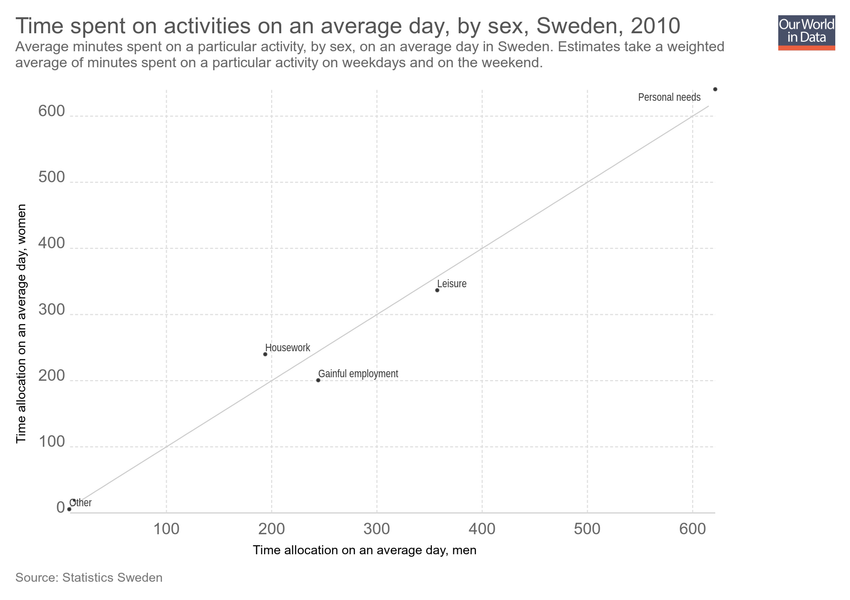
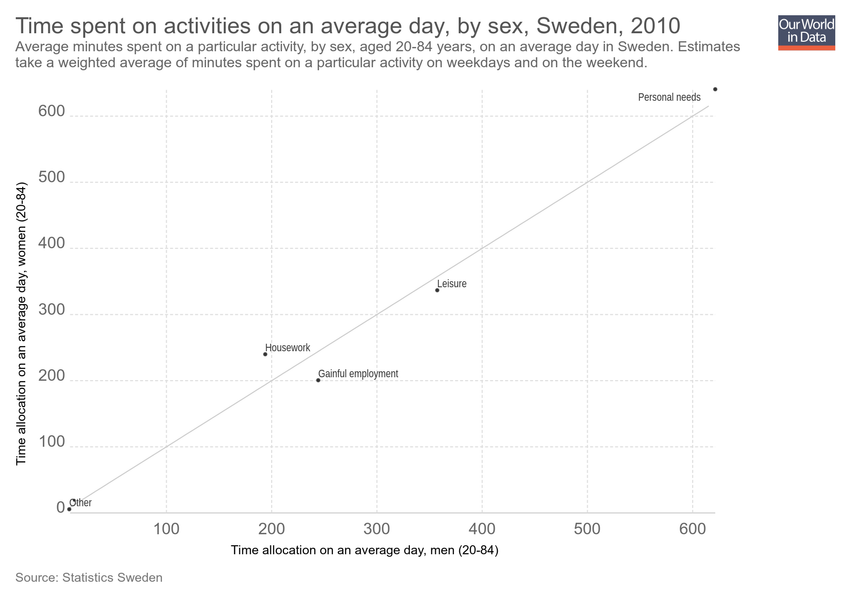
Updating chart time-spent-on-activities-on-an-average-day-by-sex-sweden

Changed region(s): [[0.0, 0.06, 0.8871, 0.12], [0.0, 0.3, 0.0306, 0.78], [0.2753, 0.9, 0.5812, 0.93]]

diff --git a/grapher/time-spent-on-activities-on-an-average-day-by-sex-sweden.html b/grapher/time-spent-on-activities-on-an-average-day-by-sex-sweden.html
@@ -1,4 +1,4 @@
-<!doctype html><html><head><meta name="viewport" content="width=device-width, initial-scale=1" /><title>Time spent on activities on an average day, by sex, Sweden - Our World in Data</title><meta name="description" content="Average minutes spent on a particular activity, by sex, on an average day in Sweden. Estimates take a weighted average of minutes spent on a particular activity on weekdays and on the weekend. " /><link rel="canonical" href="https://ourworldindata.org/grapher/time-spent-on-activities-on-an-average-day-by-sex-sweden" /><meta property="fb:app_id" content="1149943818390250" /><meta property="og:url" content="https://ourworldindata.org/grapher/time-spent-on-activities-on-an-average-day-by-sex-sweden" /><meta property="og:title" content="Time spent on activities on an average day, by sex, Sweden" /><meta property="og:description" content="Average minutes spent on a particular activity, by sex, on an average day in Sweden. Estimates take a weighted average of minutes spent on a particular activity on weekdays and on the weekend. " /><meta property="og:image" content="https://ourworldindata.org/grapher/exports/time-spent-on-activities-on-an-average-day-by-sex-sweden.png?v=3" /><meta property="og:image:width" content="850" /><meta property="og:image:height" content="600" /><meta property="og:site_name" content="Our World in Data" /><meta name="twitter:card" content="summary_large_image" /><meta name="twitter:site" content="@OurWorldInData" /><meta name="twitter:creator" content="@OurWorldInData" /><meta name="twitter:title" content="Time spent on activities on an average day, by sex, Sweden" /><meta name="twitter:description" content="Average minutes spent on a particular activity, by sex, on an average day in Sweden. Estimates take a weighted average of minutes spent on a particular activity on weekdays and on the weekend. " /><meta name="twitter:image" content="https://ourworldindata.org/grapher/exports/time-spent-on-activities-on-an-average-day-by-sex-sweden.png?v=3" /><style>
+<!doctype html><html><head><meta name="viewport" content="width=device-width, initial-scale=1" /><title>Time spent on activities on an average day, by sex, Sweden - Our World in Data</title><meta name="description" content="Average minutes spent on a particular activity, by sex, aged 20-84 years, on an average day in Sweden. Estimates take a weighted average of minutes spent on a particular activity on weekdays and on the weekend. " /><link rel="canonical" href="https://ourworldindata.org/grapher/time-spent-on-activities-on-an-average-day-by-sex-sweden" /><meta property="fb:app_id" content="1149943818390250" /><meta property="og:url" content="https://ourworldindata.org/grapher/time-spent-on-activities-on-an-average-day-by-sex-sweden" /><meta property="og:title" content="Time spent on activities on an average day, by sex, Sweden" /><meta property="og:description" content="Average minutes spent on a particular activity, by sex, aged 20-84 years, on an average day in Sweden. Estimates take a weighted average of minutes spent on a particular activity on weekdays and on the weekend. " /><meta property="og:image" content="https://ourworldindata.org/grapher/exports/time-spent-on-activities-on-an-average-day-by-sex-sweden.png?v=4" /><meta property="og:image:width" content="850" /><meta property="og:image:height" content="600" /><meta property="og:site_name" content="Our World in Data" /><meta name="twitter:card" content="summary_large_image" /><meta name="twitter:site" content="@OurWorldInData" /><meta name="twitter:creator" content="@OurWorldInData" /><meta name="twitter:title" content="Time spent on activities on an average day, by sex, Sweden" /><meta name="twitter:description" content="Average minutes spent on a particular activity, by sex, aged 20-84 years, on an average day in Sweden. Estimates take a weighted average of minutes spent on a particular activity on weekdays and on the weekend. " /><meta name="twitter:image" content="https://ourworldindata.org/grapher/exports/time-spent-on-activities-on-an-average-day-by-sex-sweden.png?v=4" /><style>
         html, body {
             height: 100%;
             margin: 0;
@@ -20,8 +20,8 @@
         }
     </style><noscript><style>
                     figure { display: none !important; }
-                </style></noscript><link rel="stylesheet" href="https://ourworldindata.org/grapher/assets/commons.bundle.a7ca57435d3cddfe4bc2.css" /><link rel="preload" href="/grapher/data/variables/97953+97954+123.json?v=3" as="fetch" crossorigin /></head><body class="singleChart"><figure data-grapher-src="/grapher/time-spent-on-activities-on-an-average-day-by-sex-sweden"></figure><noscript id="fallback"><img src="/grapher/exports/time-spent-on-activities-on-an-average-day-by-sex-sweden.svg" /><p>Interactive visualization requires JavaScript</p></noscript><script src="https://cdn.polyfill.io/v2/polyfill.min.js?features=es6,fetch"></script><script src="https://ourworldindata.org/grapher/assets/commons.bundle.a7ca57435d3cddfe4bc2.js"></script><script src="https://ourworldindata.org/grapher/assets/charts.bundle.a7ca57435d3cddfe4bc2.js"></script><script>
-        var jsonConfig = {"id":3017,"map":{"projection":"World","colorSchemeLabels":[],"colorSchemeValues":[],"customNumericColors":[],"customCategoryColors":{},"customCategoryLabels":{},"customHiddenCategories":{}},"tab":"chart","slug":"time-spent-on-activities-on-an-average-day-by-sex-sweden","type":"ScatterPlot","title":"Time spent on activities on an average day, by sex, Sweden","xAxis":{"scaleType":"linear"},"yAxis":{"min":0,"scaleType":"linear"},"maxTime":2010,"minTime":2010,"version":3,"subtitle":"Average minutes spent on a particular activity, by sex, on an average day in Sweden. Estimates take a weighted average of minutes spent on a particular activity on weekdays and on the weekend. ","hasMapTab":false,"stackMode":"absolute","dimensions":[{"display":{"name":"Time allocation on an average day, women"},"property":"y","variableId":97953},{"display":{"name":"Time allocation on an average day, men"},"property":"x","variableId":97954},{"display":{},"property":"color","variableId":123}],"hasChartTab":true,"isPublished":true,"selectedData":[],"addCountryMode":"change-country","comparisonLine":{}};
+                </style></noscript><link rel="stylesheet" href="https://ourworldindata.org/grapher/assets/commons.bundle.a7ca57435d3cddfe4bc2.css" /><link rel="preload" href="/grapher/data/variables/97953+97954+123.json?v=4" as="fetch" crossorigin /></head><body class="singleChart"><figure data-grapher-src="/grapher/time-spent-on-activities-on-an-average-day-by-sex-sweden"></figure><noscript id="fallback"><img src="/grapher/exports/time-spent-on-activities-on-an-average-day-by-sex-sweden.svg" /><p>Interactive visualization requires JavaScript</p></noscript><script src="https://cdn.polyfill.io/v2/polyfill.min.js?features=es6,fetch"></script><script src="https://ourworldindata.org/grapher/assets/commons.bundle.a7ca57435d3cddfe4bc2.js"></script><script src="https://ourworldindata.org/grapher/assets/charts.bundle.a7ca57435d3cddfe4bc2.js"></script><script>
+        var jsonConfig = {"id":3017,"map":{"projection":"World","colorSchemeLabels":[],"colorSchemeValues":[],"customNumericColors":[],"customCategoryColors":{},"customCategoryLabels":{},"customHiddenCategories":{}},"tab":"chart","slug":"time-spent-on-activities-on-an-average-day-by-sex-sweden","type":"ScatterPlot","title":"Time spent on activities on an average day, by sex, Sweden","xAxis":{"scaleType":"linear"},"yAxis":{"min":0,"scaleType":"linear"},"maxTime":2010,"minTime":2010,"version":4,"subtitle":"Average minutes spent on a particular activity, by sex, aged 20-84 years, on an average day in Sweden. Estimates take a weighted average of minutes spent on a particular activity on weekdays and on the weekend. ","hasMapTab":false,"stackMode":"absolute","dimensions":[{"display":{"name":"Time allocation on an average day, women (20-84)"},"property":"y","variableId":97953},{"display":{"name":"Time allocation on an average day, men (20-84)"},"property":"x","variableId":97954},{"display":{},"property":"color","variableId":123}],"hasChartTab":true,"isPublished":true,"selectedData":[],"addCountryMode":"change-country","comparisonLine":{}};
         var figure = document.getElementsByTagName("figure")[0];
         try {
             window.App = {};
